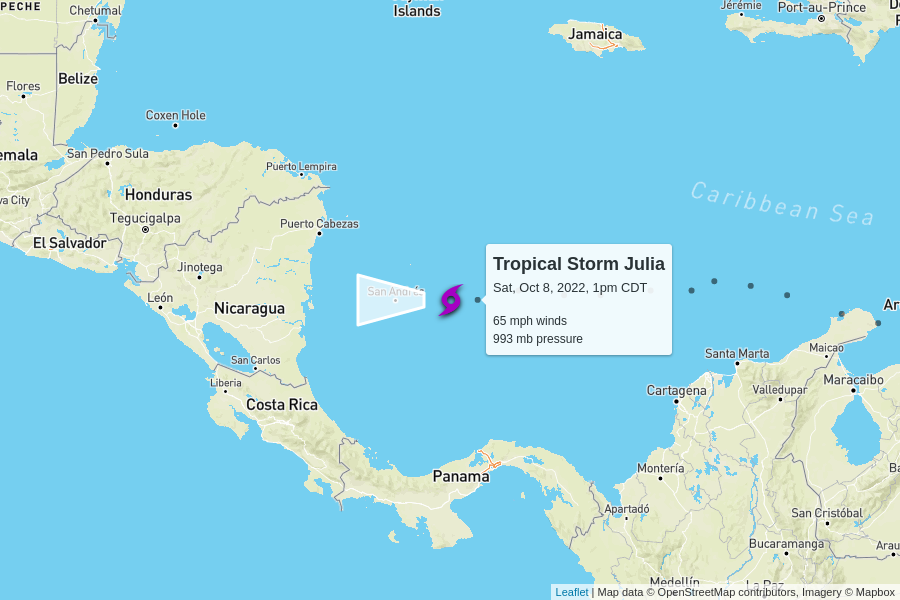
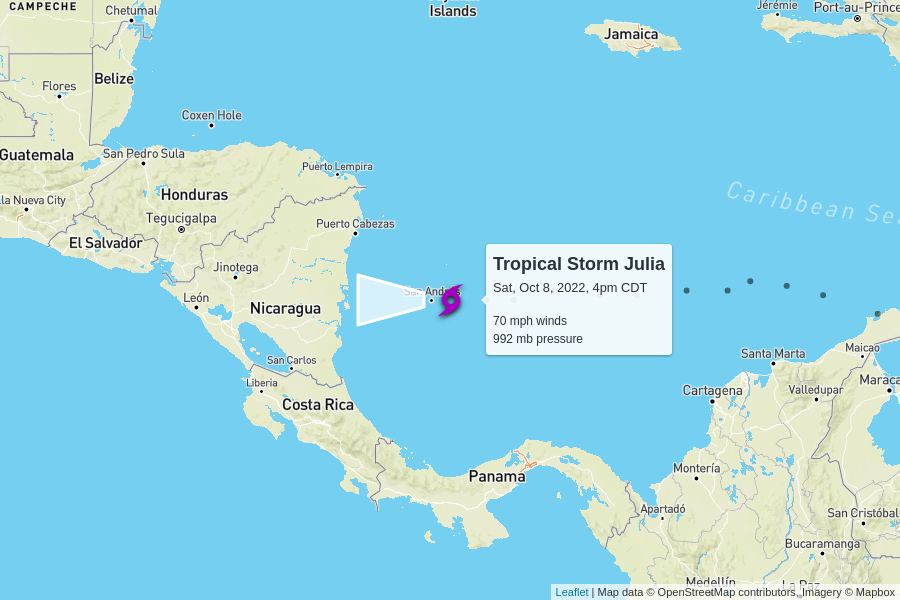
automatic update

diff --git a/docs/index.html b/docs/index.html
@@ -100,7 +100,7 @@
         <td colspan="6" class="storm category-0" >
           <h2>
             Tropical Storm Julia
-            <p class="updated">last updated <span data-time>2022-10-08T18:00:00.000Z</span></p>
+            <p class="updated">last updated <span data-time>2022-10-08T21:00:00.000Z</span></p>
           </h2>
         </td>
       </tr>
@@ -115,10 +115,10 @@
       </tr>
       <tr>
         <td class="spacer"></td>
-        <td>65 mph</td>
-        <td>993 mb</td>
+        <td>70 mph</td>
+        <td>992 mb</td>
         <td>
-          18 mph to the west
+          17 mph to the west
           <br/>
           <span style="display: inline-block; font-size: 1.5em; transform: rotate(270deg);">↑</span>
         </td>
